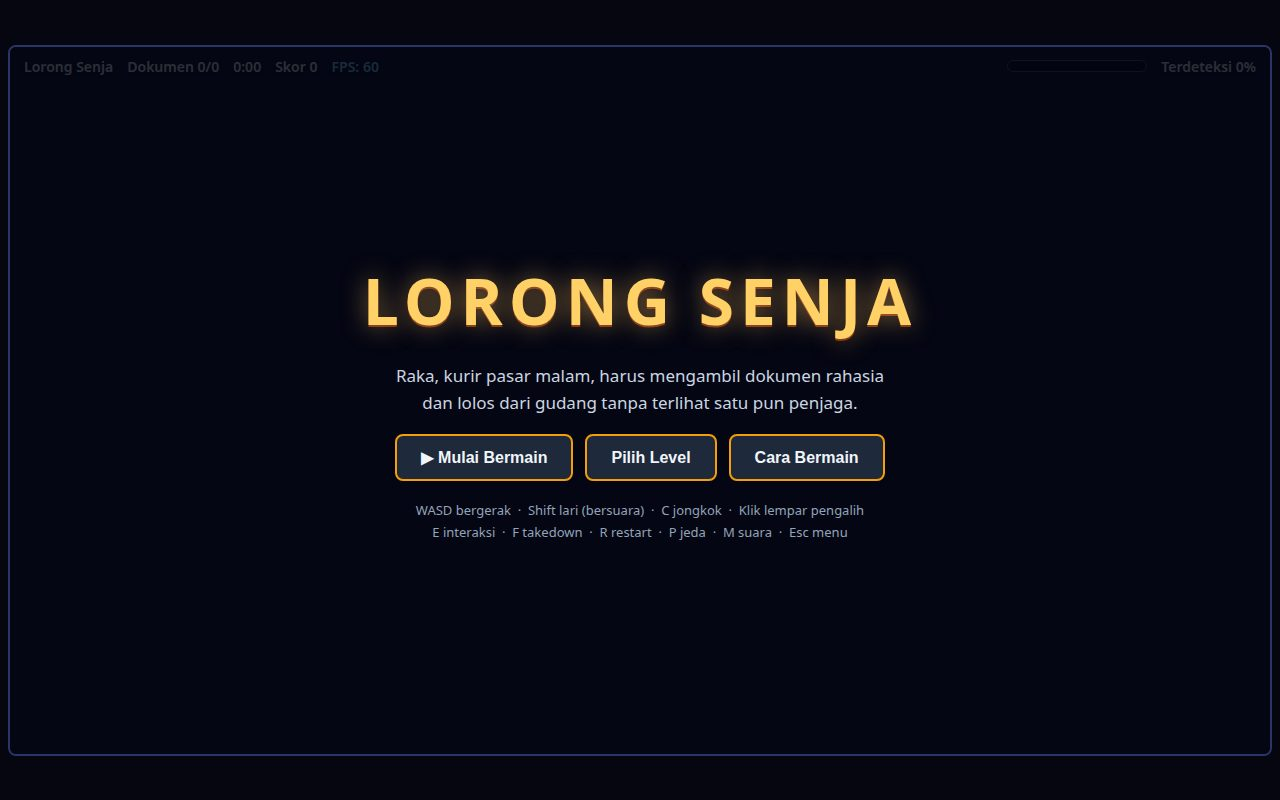
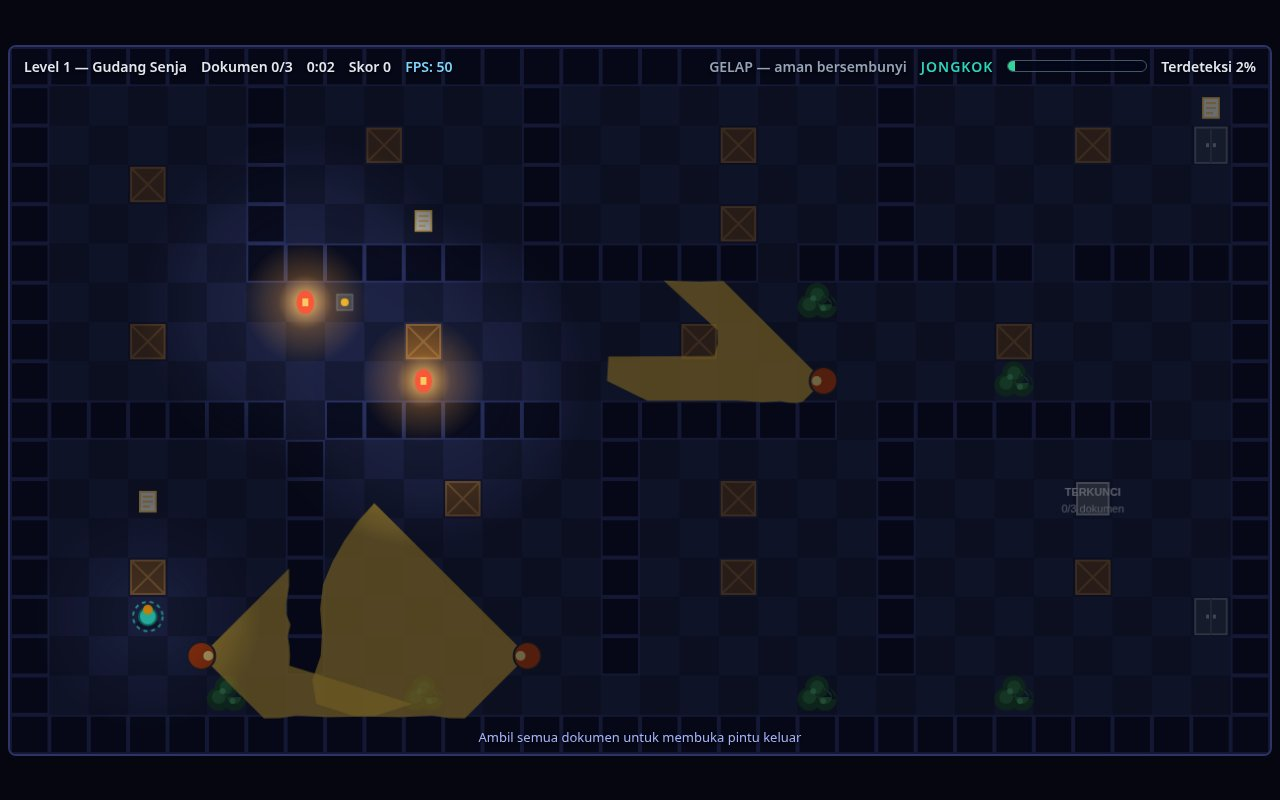
Fix cover: ?shot=start masuk gameplay, bukan layar judul
shot=start dulu memanggil showTitle() sehingga 1-cover.jpg
menampilkan menu. Sekarang startLevel(0) dengan staging cover
yang beda dari 2-play: Raka jongkok di balik peti koridor bawah,
dua guard bawah berhadapan (cone kuning), guard koridor
berpatroli, exit terlihat di kanan. Regenerate 1-cover.jpg
(1280x800, 67 KiB) dari build ini.

diff --git a/game/src/shots.js b/game/src/shots.js
@@ -2,7 +2,9 @@
 // Mode deterministik untuk screenshot (?shot=start|play|alarm|end&seed=1).
 // Dipanggil sekali setelah game dibuat; mengatur scene yang sama setiap run.
 //
-//   start : layar judul (default).
+//   start : level 1 berjalan — adegan cover: Raka jongkok di balik peti
+//           koridor bawah, dua guard berhadapan dengan cone-nya, exit
+//           terlihat di kanan. (Dulu: layar judul — itu bug cover.)
 //   play  : level 1 berjalan, Raka di balik peti, cone guard di dekatnya.
 //   alarm : level 1, meter deteksi tinggi, cone merah (near-miss / kejar).
 //   end   : layar menang level 1.
@@ -25,7 +27,31 @@ export function applyShot(game) {
   void rand;
 
   if (shot === 'start') {
-    game.showTitle();
+    game.startLevel(0);
+    // COVER: Raka jongkok di balik peti (tile 3,13), di koridor bawah.
+    // Guard bawah kiri menghadap kanan, guard bawah tengah menghadap kiri —
+    // dua cone kuning berhadapan di koridor bawah, Raka di celahnya.
+    // Guard koridor (baris 8) tetap berpatroli normal; exit (27,11)
+    // terlihat di kanan. Beda framing dari ?shot=play (pojok kiri atas).
+    game.teleport(3 * 40 + 20, 14 * 40 + 20);
+    game.player.forceCrouch = true;
+    const g1 = game.guards[1];
+    g1.x = 4 * 40 + 20;
+    g1.y = 15 * 40 + 20;
+    g1.angle = 0; // menghadap kanan
+    g1.state = 'patrol';
+    // Waypoint 20 px ke arah hadap agar guard diam di tempat TANPA
+    // berputar (faceToward ke waypoint sendiri memutar ke sudut 0).
+    g1.waypoints = [{ x: g1.x + 20, y: g1.y }];
+    g1.wpIndex = 0;
+    const g2 = game.guards[2];
+    g2.x = 13 * 40 + 20;
+    g2.y = 15 * 40 + 20;
+    g2.angle = Math.PI; // menghadap kiri, ke arah g1
+    g2.state = 'patrol';
+    g2.waypoints = [{ x: g2.x - 20, y: g2.y }];
+    g2.wpIndex = 0;
+    game.detection = 45;
   } else if (shot === 'play') {
     game.startLevel(0);
     // Raka bersembunyi tepat di balik peti (tile 3,7), di koridor baris 8.
